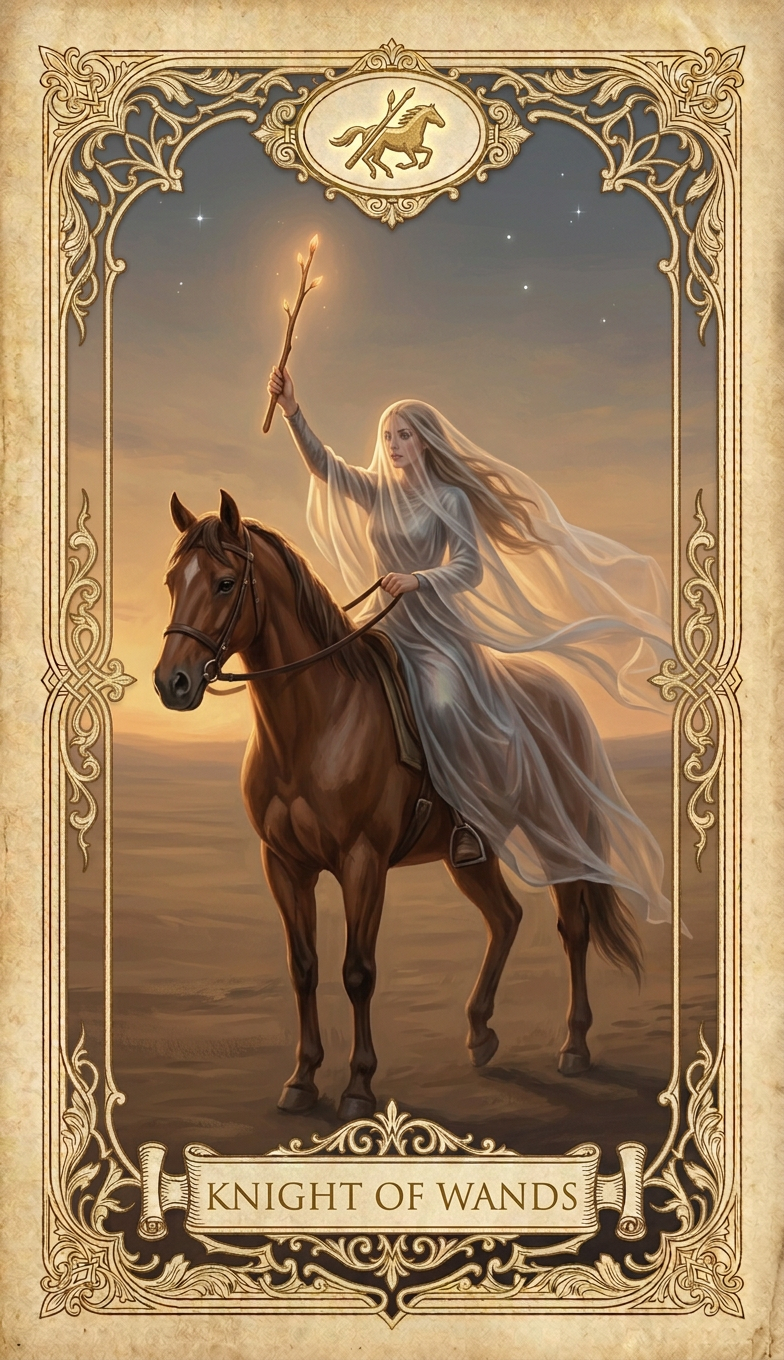
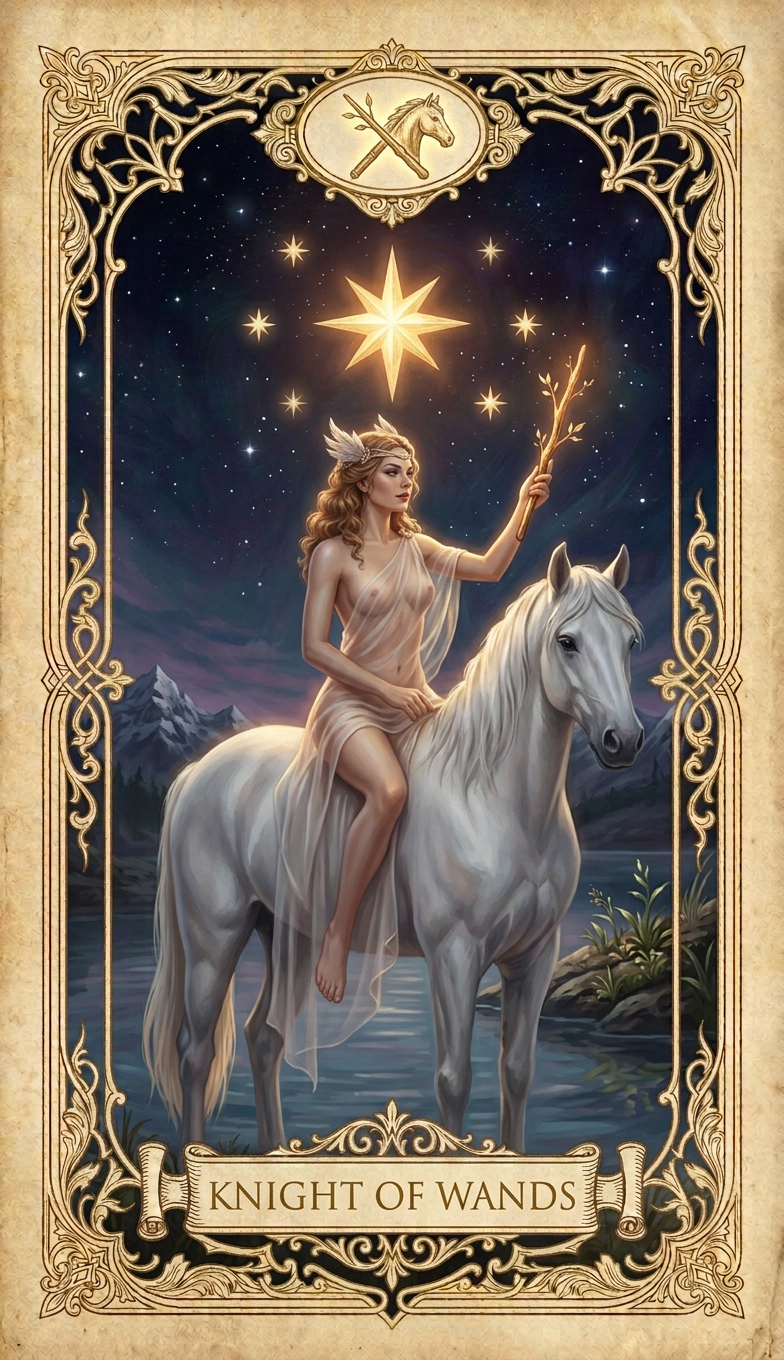
Redo Knight of Wands: white horse, sensual, minimal clothing
Knight of Wands reworked to a serene female knight nearly bare in only a
sheer silk wisp, riding a calm pure-white horse, raising one flourishing
wand. Frame-verified vs The Star (RMSE 0.020).

diff --git a/cards/index.html b/cards/index.html
@@ -678,7 +678,7 @@
             <div class="card-details">
                 <div class="card-title">KNIGHT OF WANDS</div>
                 <div class="card-meta"><strong>Độ tuổi:</strong> 22 years old &bull; <strong>Huy hiệu:</strong> a wand over a horse</div>
-                <div class="card-scene">a serene 22-year-old female knight draped in a diaphanous transparent silk veil on a calm horse, gently raising one flourishing living wand in her hand</div>
+                <div class="card-scene">a serene 22-year-old female knight, nearly bare with only a wisp of sheer transparent silk draped across her form, riding a calm pure-white horse, gently raising one flourishing living wand in her hand</div>
             </div>
         </div>
         <div class="card-item">
